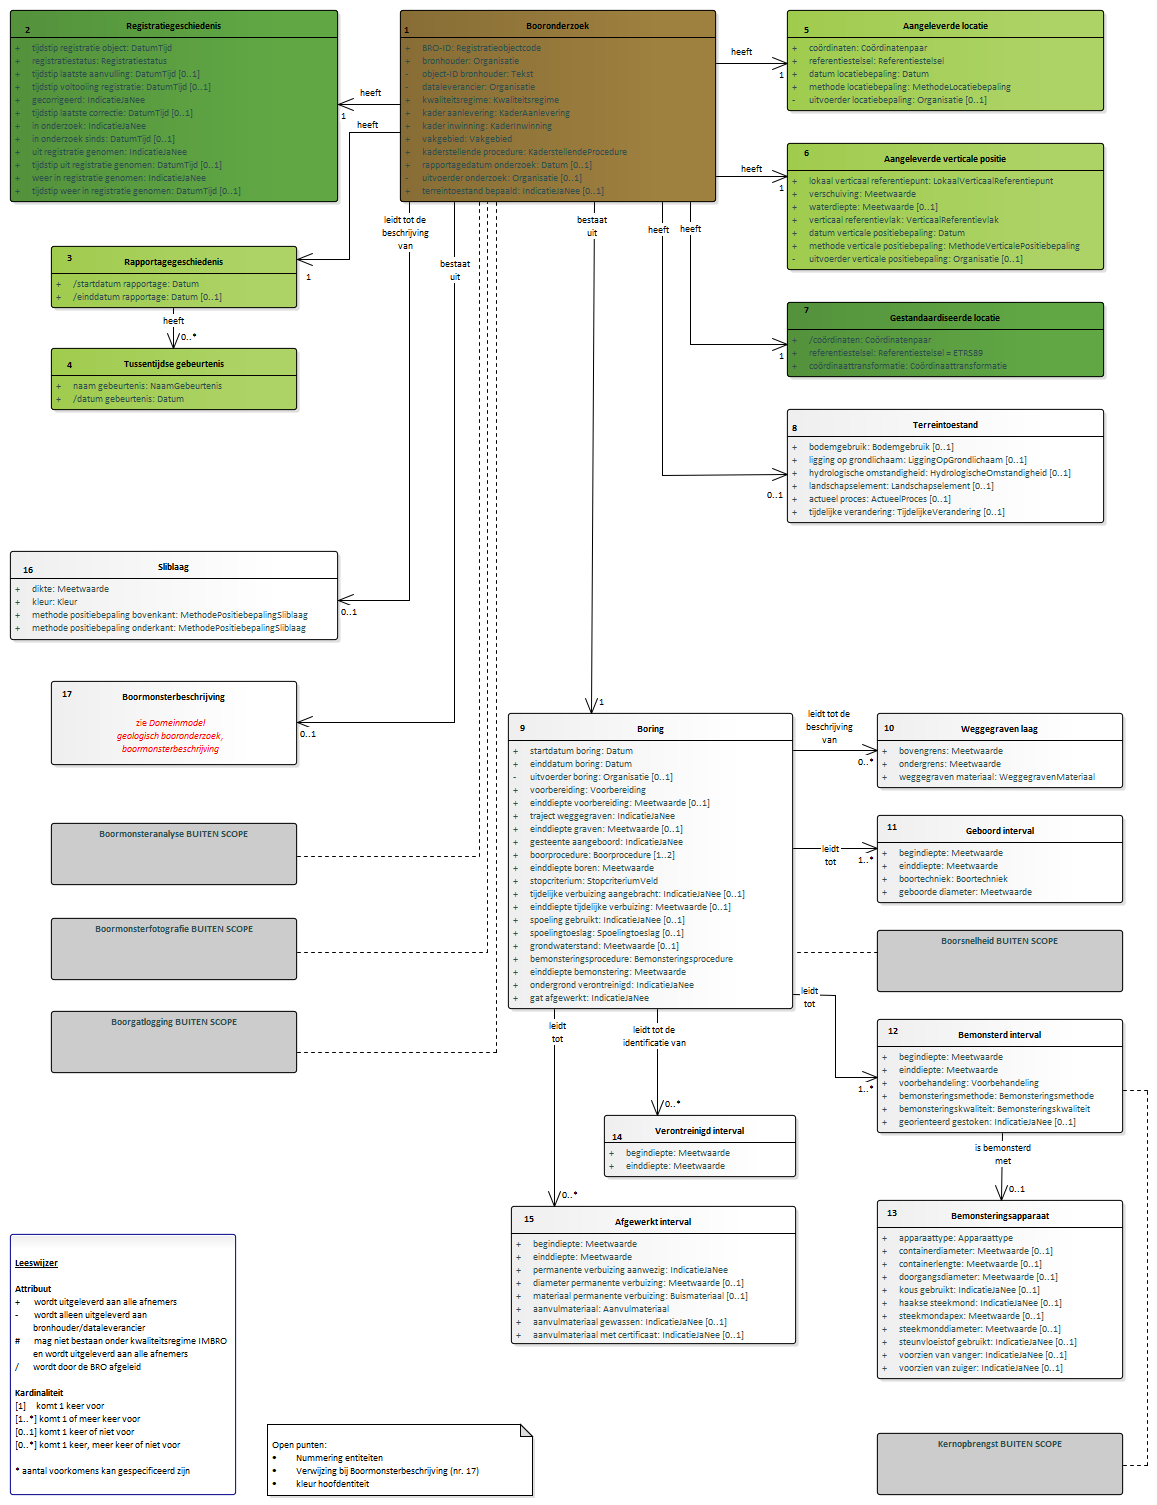
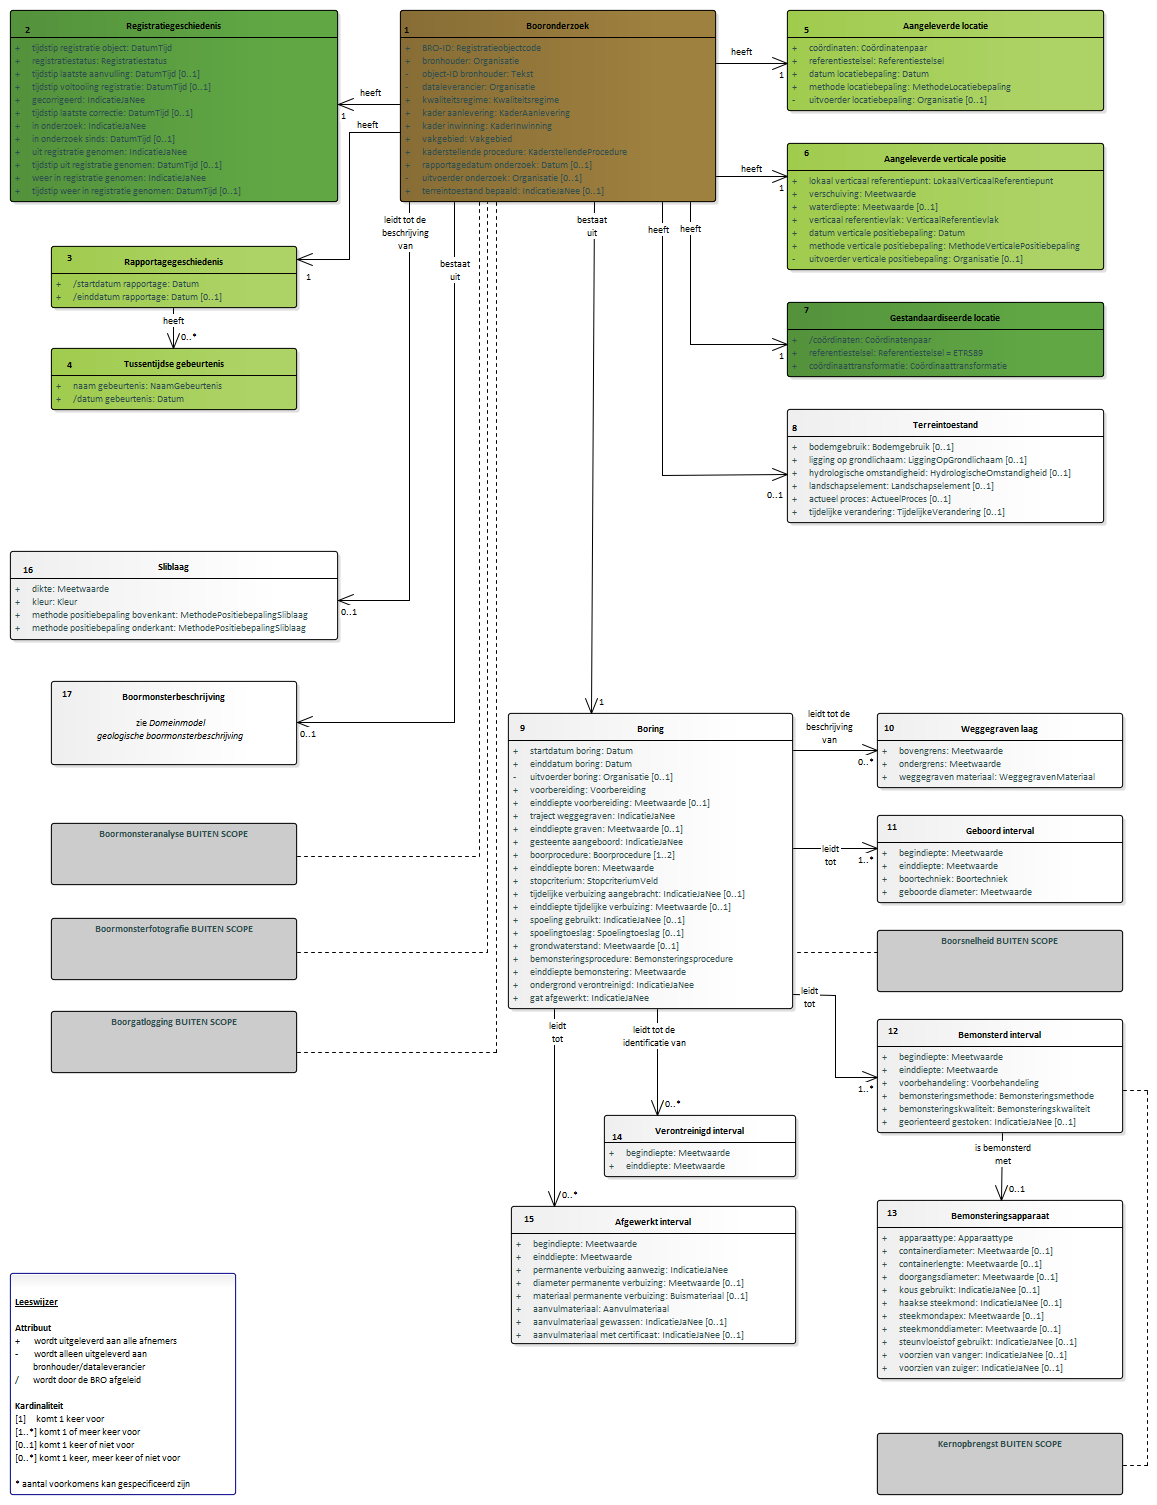
Conceptualmodel-GeologischbooronderzoekBHR-G-0.91-0-20200203-20200303-141454

diff --git a/data/BHR-G-cat.msword.html b/data/BHR-G-cat.msword.html
@@ -13,7 +13,7 @@
    <body>
       <p>Conceptual model/Geologisch booronderzoek (BHR-G)/20200203</p>
       <p>Imvertor: 1.59.2</p>
-      <p>Model release: Conceptualmodel-GeologischbooronderzoekBHR-G-0.91-0-20200203-20200303-140121</p>
+      <p>Model release: Conceptualmodel-GeologischbooronderzoekBHR-G-0.91-0-20200203-20200303-141454</p>
       <hr>
       <section>
          <h1>Artikel 1 Definitie van registratieobject, entiteiten en attributen</h1>
@@ -87,7 +87,7 @@
                      <area shape="rect" alt="Tussentijdse gebeurtenis" coords="51,348,297,410" href="#graph_EAID_725A4724_B6D0_4341_A1C4_4F93AD3E6216">
                      <area shape="rect" alt="Rapportagegeschiedenis" coords="51,246,297,308" href="#graph_EAID_8BEA8373_8624_4cd9_80EA_7EC93CED307F">
                      <area shape="rect" alt="Registratiegeschiedenis" coords="10,10,338,202" href="#graph_EAID_C7F3AA17_23C9_4038_AA5F_EA56515F2929">
-                     <area shape="rect" alt="Booronderzoek" coords="400,10,716,202" href="#graph_EAID_660D0220_39EE_4290_AD92_C8E8CCEDB502"></map><p><b>Geologisch booronderzoek algemeen deel</b></p>
+                     <area shape="rect" alt="Booronderzoek" coords="400,10,716,202" href="#graph_EAID_660D0220_39EE_4290_AD92_C8E8CCEDB502"></map><p><b>Domeinmodel geologisch booronderzoek, algemeen deel</b></p>
                </div>
                <div class="imageinfo overview"><img src="Images/EAID_A794A5F1_C52E_4a52_952F_D4257486C44D.png" usemap="#imagemap-EAID_A794A5F1_C52E_4a52_952F_D4257486C44D" alt="Diagram "><map name="imagemap-EAID_A794A5F1_C52E_4a52_952F_D4257486C44D">
                      <area shape="rect" alt="Verdeling fijne fractie grindarme minerale grond" coords="269,1529,506,1604" href="#graph_EAID_6EE3DDDC_4909_4509_91BD_DDE3546FD55F">
@@ -119,7 +119,7 @@
                      <area shape="rect" alt="Laag" coords="323,319,705,576" href="#graph_EAID_F9410F95_1E35_49a6_8BB8_D0E18D712643">
                      <area shape="rect" alt="Boorprofiel" coords="323,150,705,277" href="#graph_EAID_2BA8A9AC_A3C1_452a_983C_282727BF9036">
                      <area shape="rect" alt="Boormonsterbeschrijving" coords="323,10,705,98" href="#graph_EAID_D89A831D_A496_41a9_AE6D_57069276AAC1">
-                     <area shape="rect" alt="Grond" coords="323,791,705,1035" href="#graph_EAID_9A1B738F_E114_4c70_BDAF_7EABE244ADA0"></map><p><b>Booronderzoek geologische boormonsterbeschrijving</b></p>
+                     <area shape="rect" alt="Grond" coords="323,791,705,1035" href="#graph_EAID_9A1B738F_E114_4c70_BDAF_7EABE244ADA0"></map><p><b>Domeinmodel geologische boormonsterbeschrijving</b></p>
                </div>
             </section>
          </section>
@@ -6764,7 +6764,7 @@
                               <th>Definitie</th>
                               <td>
                                  
-                                 <p>Het hulpmiddel dat is gebruikt voor de beschrijving van de zandfractie.</p>
+                                 <p>Een extra hulpmiddel dat voor het beschijven van de monsters is gebruikt.</p>
                                  
                               </td>
                            </tr>
